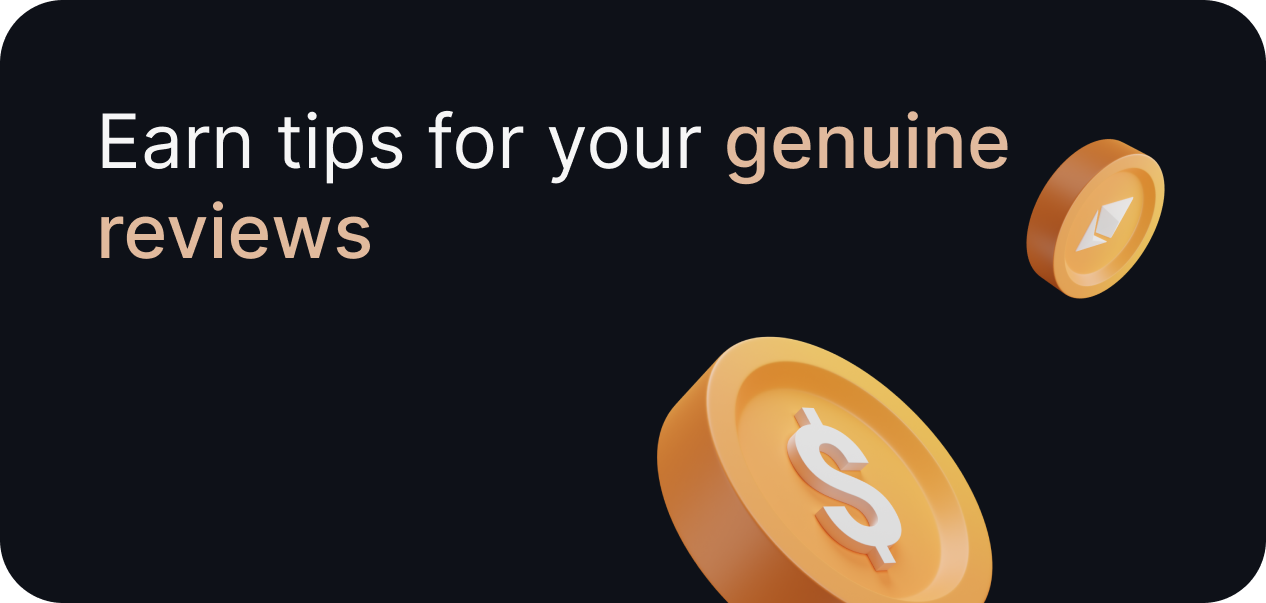
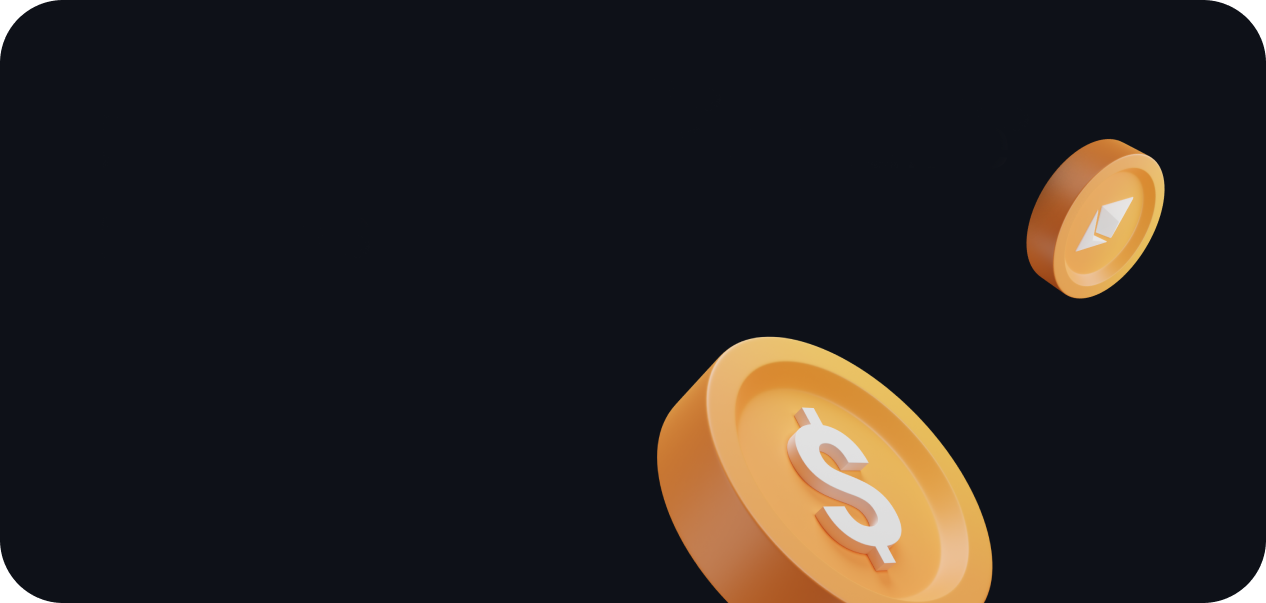
fuzzy r2

Changed region(s): [[0.0616, 0.1791, 0.8009, 0.3284], [0.0616, 0.3284, 0.3081, 0.4478], [0.8009, 0.2985, 0.8318, 0.3284]]

diff --git a/pages/index/index.module.scss b/pages/index/index.module.scss
@@ -136,6 +136,69 @@
             width: 422px;
             height: 201px;
             background-size: contain;
+            padding: 32px;
+
+            h3 {
+                color: #f6f6f6;
+                font-family: "Inter";
+                font-weight: 400;
+                font-size: 25px;
+                line-height: 120%;
+                width: 320px;
+                margin: 0;
+            }
+
+            img {
+                position: absolute;
+            }
+
+            .text_red {
+                background: linear-gradient(90deg, #eb6079 0%, #ee5193 100%);
+                -webkit-background-clip: text;
+                -webkit-text-fill-color: transparent;
+                font-family: "Inter";
+                font-weight: 400;
+                font-size: 25px;
+                line-height: 120%;
+                margin: 0;
+                padding: 0;
+            }
+
+            .text_lpurple {
+                color: #e79ed8;
+                font-family: "Inter";
+                font-weight: 400;
+                font-size: 25px;
+                line-height: 120%;
+                margin: 0;
+                padding: 0;
+                width: 340px;
+                height: min-content;
+            }
+
+            .text_purple {
+                color: #c09dff;
+                font-family: "Inter";
+                font-weight: 400;
+                font-size: 25px;
+                line-height: 120%;
+                margin: 0;
+                height: auto;
+                width: auto;
+                padding: 0;
+            }
+
+            .text_gold {
+                color: #f8ed89;
+                font-family: "Inter";
+                font-weight: 400;
+                font-size: 25px;
+                line-height: 120%;
+                margin: 0;
+                height: auto;
+                width: auto;
+                padding: 0;
+            }
         }
     }
 

diff --git a/pages/index.jsx b/pages/index.jsx
@@ -120,9 +120,15 @@ export default function Home() {
               </span>
             </div>
             <div className={styles.r2} >
-              <span style={{ backgroundImage: "url('/d_daoinfo_1.png')" }} ></span>
-              <span style={{ backgroundImage: "url('/d_daoinfo_2.png')" }}></span>
-              <span style={{ backgroundImage: "url('/d_daoinfo_3.png')" }}></span>
+              <span style={{ backgroundImage: "url('/d_daoinfo_1.png')" }}>
+                <h3>100% fully <span className={styles.text_purple}>On-chain Anonymous</span> and Gasless</h3>
+              </span>
+              <span style={{ backgroundImage: "url('/d_daoinfo_2.png')" }}>
+                <h3>Earn tips for your <span className={styles.text_gold}>genuine reviews</span></h3>
+              </span>
+              <span style={{ backgroundImage: "url('/d_daoinfo_3.png')" }}>
+                <h3><span className={styles.text_lpurple}>Discover, Join and Contribute</span>to DAOs</h3>
+              </span>
             </div>
           </div>
 
